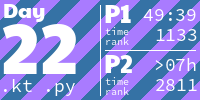
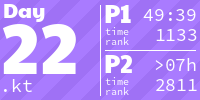
Add day 22

diff --git a/2022/22/22.kt b/2022/22/22.kt
@@ -1,0 +1,178 @@
+// This solution was not golfed whatsoever, it still prints both parts, 
+// but is certainly not general to solve any input. However, some of the complexity arises
+// a basic because of an ASCII visualization which has been added. 
+//
+// Set this to true in order to paint a colorful ASCII image (needs ANSI support)
+val visualize = false  
+
+// This solution only works for inputs of shape:
+//
+//  ##          #          ##           # 
+//  #     or    ##    or    #     or   ##   
+// ##           #           ##          #    
+//  #          ##           #           ##
+//
+// Important is: 
+//      * it has to be higher than its width 
+//      * the middle column must be filled
+//      * the remaining 2 blocks have to be on opposite sites, one offset to the other by y=2 blocks
+
+class Painter(field: List<String>) {
+    val visField = field.map { it.toMutableList() }
+
+    var time = 0
+    val coords: MutableList<Pair<Int, Int>> = mutableListOf()
+    val atTime: MutableMap<Pair<Int, Int>, Int> = mutableMapOf()
+    val MAX_TRAIL_LENGTH = 500
+
+    fun add(y: Int, x: Int, c: Char) { 
+        visField[y][x] = c
+        atTime[y to x] = time
+        coords.add(y to x)
+        if (coords.size > MAX_TRAIL_LENGTH)
+            coords.removeAt(0)
+    }
+
+    fun paint(withBackground: Boolean = false) {
+        if (!visualize) 
+            return
+        print("[H")
+        var c = 
+            if (withBackground) 
+                visField[0].indices.flatMap { visField.indices.map { y -> y to it } } 
+            else
+                coords
+        for ((y, x) in c) {
+            if (!withBackground && (y to x) !in atTime)
+                continue
+            fun t(mult: Double = 1.0, atLeast: Int = 50, max: Int = 255): Int = 
+                maxOf(atLeast, (max - (time - atTime[y to x]!!) * mult).toInt())
+            when (visField[y][x]) {
+                '#' -> "[38;2;105;15;0m"
+                '.' -> "[38;2;120;120;130m"
+                ' ' -> "[38;2;10;20;10m"
+                else -> "[38;2;${t(1.0)};${t(0.25)};${t(0.01)}m"
+            }.run(::print)
+            print("[${x};${y}H▓")
+        }
+        println()
+        time++
+    }
+}
+
+val dirs = listOf(0 to 1, 1 to 0, 0 to -1, -1 to 0)
+
+
+fun main() {
+    val (field, seq) = generateSequence(::readlnOrNull).joinToString("\n")
+        .split("\n\n").map { it.split("\n") }
+    val painter = Painter(field)
+    val instructions = Regex("(\\d+|[RL])").findAll(seq[0]).toList()
+    var currDir = 0
+    var (cy, cx) = 0 to field[0].indexOfFirst { it == '.' }
+
+    painter.paint(true)
+    for (instruction in instructions.map { it.value }) {
+        if (instruction in "RL") {
+            currDir = (currDir + if (instruction == "R") 1 else -1).mod(4)
+            continue
+        }
+        var (ny, nx) = cy to cx
+        for (i in 1..instruction.toInt()) {
+            painter.paint()
+            var ny3 = ny + dirs[currDir].first
+            var nx3 = nx + dirs[currDir].second
+            var dir3 = currDir
+
+            val yIsShorter = field.size < field[0].length
+            val alongShortAxis = (dirs[currDir].first != 0 && yIsShorter) || (dirs[currDir].second != 0 && !yIsShorter)
+            if (ny3 !in field.indices || nx3 !in field[0].indices) {
+                if (!yIsShorter && alongShortAxis) {
+                    dir3 = (dir3 + 2).mod(4)
+                    ny3 = (50*2 + ny3 - ny3 % 50 + (49 - ny3 % 50)).mod(field.size)
+                    nx3 = nx3 + dirs[dir3].second
+                    assert(ny3 in field.indices && nx3 in field[0].indices) { "$ny3 $nx3 out of bounds" }
+                }
+            }
+            ny3 = ny3.mod(field.size)
+            nx3 = nx3.mod(field[0].length)
+            ny = (ny + dirs[currDir].first).mod(field.size)
+            nx = (nx + dirs[currDir].second).mod(field[cy].length)
+            var ny2 = ny
+            var nx2 = nx
+            if (field[ny][nx] == ' ' && field[ny2][nx2] == ' ') {
+                var nyxp: MutableList<Pair<Int, Int>> = mutableListOf()
+                var nyx2p: MutableList<Pair<Int, Int>> = mutableListOf()
+                var nyx3p: MutableList<Pair<Int, Int>> = mutableListOf()
+                painter.add(ny3, nx3, '?')
+                while (field[ny][nx] == ' ' && field[ny2][nx2] == ' ') {
+                    // If there is an adjacent block go diagonally
+                    if (!(alongShortAxis && (cy in 0..49 || cy in 100..149))) {
+                        ny = (ny + dirs[(currDir+1).mod(4)].first).mod(field.size)
+                        nx = (nx + dirs[(currDir+1).mod(4)].second).mod(field[cy].length)
+                        ny2 = (ny2 + dirs[(currDir-1).mod(4)].first).mod(field.size)
+                        nx2 = (nx2 + dirs[(currDir-1).mod(4)].second).mod(field[cy].length)
+                    }
+
+                    if (field[ny][nx] != ' ' || field[ny2][nx2] != ' ' || field[ny3][nx3] != ' ')
+                        break
+                    if (alongShortAxis && (cy in 0..49 || cy in 100..149)) {
+                        ny3 = ny3 + dirs[dir3].first
+                        nx3 = nx3 + dirs[dir3].second
+                    }
+                    else {
+                        ny = (ny + dirs[currDir].first).mod(field.size)
+                        nx = (nx + dirs[currDir].second).mod(field[cy].length)
+                        ny2 = (ny2 + dirs[currDir].first).mod(field.size)
+                        nx2 = (nx2 + dirs[currDir].second).mod(field[cy].length)
+                    }
+
+                    if (ny3 !in field.indices || nx3 !in field[0].indices) {
+                        if (!yIsShorter && alongShortAxis) {
+                            dir3 = (dir3 + 2).mod(4)
+                            ny3 = (100 + ny3 - ny3 % 50 + (49 - ny3 % 50)).mod(field.size)
+                            nx3 = nx3 + dirs[dir3].second
+                            assert(ny3 in field.indices && nx3 in field[0].indices) { "$ny3 $nx3 out of bounds" }
+                        }
+                    }
+                    ny3 = ny3.mod(field.size)
+                    nx3 = nx3.mod(field[0].length)
+                    nyxp.add(ny to nx)
+                    nyx2p.add(ny2 to nx2)
+                    nyx3p.add(ny3 to nx3)
+                }
+                if (field[ny][nx] != ' ') {
+                    if (field[ny][nx] != '#') 
+                        currDir = (currDir+1).mod(4)
+                }
+                else if (field[ny2][nx2] != ' ') {
+                    ny = ny2
+                    nx = nx2
+                    nyxp = nyx2p
+                    if (field[ny][nx] != '#') 
+                        currDir = (currDir-1).mod(4)
+                }
+                else if (field[ny3][nx3] != ' ') {
+                    ny = ny3
+                    nx = nx3
+                    nyxp = nyx3p
+                    if (field[ny][nx] != '#') 
+                        currDir = (currDir+2).mod(4)
+                }
+                for ((ny, nx) in nyxp) {
+                    painter.add(ny, nx, if (currDir % 2 == 0) '\\' else '/')
+                    painter.paint()
+                }
+            }
+            if (field[ny][nx] == '.') {
+                cy = ny
+                cx = nx
+                painter.add(cy, cx, ">v<^"[currDir])
+            }
+            else if (field[ny][nx] == '#')
+                break
+        }
+    }
+    painter.paint()
+    println(1000 * (cy+1) + 4 * (cx+1) + currDir)
+}
